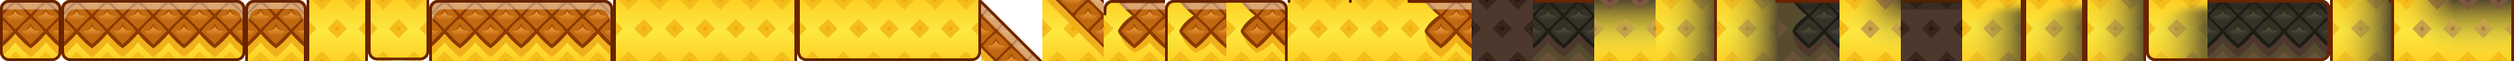
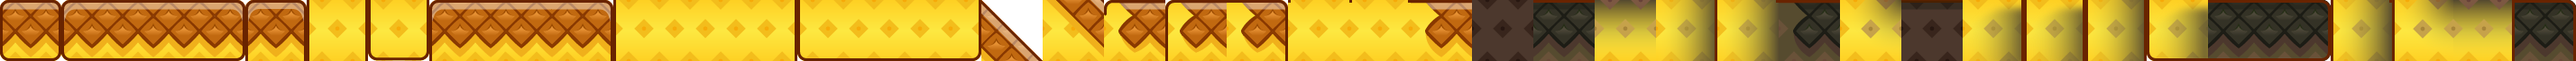
Grotte: il 66 sopra il 65, pavimento che finisce sul vuoto

diff --git a/game.js b/game.js
@@ -46,7 +46,7 @@ const PIX={block:0,horizontal_left:1,horizontal_middle:2,horizontal_right:3,vert
 const ERBANAN=new Image();ERBANAN.src='assets/erbananas.webp'; /* il ciuffo d'ananas dell'utente al posto del cespuglio nel mondo 1 */
 /* in grandezza vera, alla scala delle caselle da 68 del paesaggio: così il bordo scuro è spesso come quello del pavimento */
 function ciuffo(c,x,y,ts){const w=ERBANAN.width*ts/68,h=ERBANAN.height*ts/68;if(w)c.drawImage(ERBANAN,x-w/2,y-h,w,h);}
-const PAES=new Image();PAES.src='assets/paesaggio.webp';const PAES_RAMPA=16,PAES_SOTTO=17,PAES_BORDO={m:18,g:19,v:20},PAES_UNIONE=21,PAES_COLONNA=22,PAES_LATO_COLONNA=23,PAES_GROTTA={fondo:24,pav:25,base:26,muro:27,muroPav:28,pavMuro:29,muroBase:30,cielo:31,angolo:32,angoloS:33,muroS:34,muroFondo:35,pavFondo:36,pavFine:37,muroPavS:38,muroBaseS:39,baseBordo:40}; /* 17: la terra sotto una rampa a scalini, con la buccia della rampa dopo nell'angolo; 18-20: dove il piano finisce a sinistra, ai piedi di un muro più alto (m), con un gradino in giù (g) o sul vuoto (v); a destra si capovolgono, il bordo sul vuoto al contrario; 21: il muro accanto al bordo sul vuoto, dove le due linee si uniscono; 22: sotto una colonna, con il piano che arriva dai due lati; 23: il piano ai lati di quella colonna, senza l'uncino; 24-29: la grotta, sfondo, pavimento, la casella sotto il pavimento che torna gialla, il muro a sinistra (a destra si capovolge), e l'angolo: il muro alla quota del pavimento, la prima casella di pavimento accanto al muro e (30) il muro sotto, dove la sfumatura gira; 31: l'interno sotto il soffitto */
+const PAES=new Image();PAES.src='assets/paesaggio.webp';const PAES_RAMPA=16,PAES_SOTTO=17,PAES_BORDO={m:18,g:19,v:20},PAES_UNIONE=21,PAES_COLONNA=22,PAES_LATO_COLONNA=23,PAES_GROTTA={fondo:24,pav:25,base:26,muro:27,muroPav:28,pavMuro:29,muroBase:30,cielo:31,angolo:32,angoloS:33,muroS:34,muroFondo:35,pavFondo:36,pavFine:37,muroPavS:38,muroBaseS:39,baseBordo:40,pavBordo:41}; /* 17: la terra sotto una rampa a scalini, con la buccia della rampa dopo nell'angolo; 18-20: dove il piano finisce a sinistra, ai piedi di un muro più alto (m), con un gradino in giù (g) o sul vuoto (v); a destra si capovolgono, il bordo sul vuoto al contrario; 21: il muro accanto al bordo sul vuoto, dove le due linee si uniscono; 22: sotto una colonna, con il piano che arriva dai due lati; 23: il piano ai lati di quella colonna, senza l'uncino; 24-29: la grotta, sfondo, pavimento, la casella sotto il pavimento che torna gialla, il muro a sinistra (a destra si capovolge), e l'angolo: il muro alla quota del pavimento, la prima casella di pavimento accanto al muro e (30) il muro sotto, dove la sfumatura gira; 31: l'interno sotto il soffitto */
 function paes(c,i,x,y,w,h,flip,capo){const s=c.imageSmoothingEnabled;c.imageSmoothingEnabled=false;if(flip||capo){c.save();c.translate(flip?x+w:x,capo?y+h:y);c.scale(flip?-1:1,capo?-1:1);c.drawImage(PAES,i*68,0,68,68,0,0,w,h);c.restore();}else c.drawImage(PAES,i*68,0,68,68,x,y,w,h);c.imageSmoothingEnabled=s;}
 function sp(c,n,x,y,w,h,flip){if(n.startsWith('terrain_sand_')&&PAES.complete){const t=n.slice(13);if(t==='ramp_short_b'){paes(c,PAES_RAMPA,x,y,w,h,flip);return;}if(t in PIX){paes(c,PIX[t],x,y,w,h);return;}}
  const q=KMAP[n],im=q&&q[2]?KIT2:KIT;if(!q||!im.complete)return;if(flip){c.save();c.translate(x+w,y);c.scale(-1,1);c.drawImage(im,q[0],q[1],96,96,0,0,w,h);c.restore();}else c.drawImage(im,q[0],q[1],96,96,x,y,w,h);}
@@ -581,7 +581,7 @@ function disegna2d(){
  for(const f of M.finti||[]){if(f[2]<c0||f[0]>c1)continue;const dentro=p.x>f[0]-.7&&p.x<f[2]+.7&&p.y>f[1]-.7&&p.y<f[3]+.7;f.a=lerp(f.a===undefined?1:f.a,dentro?.05:1,.15);
   const g=clamp((1-f.a)/.7,0,1);if(g>.01){c.globalAlpha=g;/* pavimento con sotto la casella che torna gialla; il soffitto resta giallo; i muri ai lati solo se la grotta ha il pavimento: nei tunnel aperti sotto si vede solo l'interno */
    const gr=(x,y,i,capo,flip)=>{if(pieno(cel(x,y)))paes(c,i,sx(x)-ts/2,sy(y)-ts/2,mz,mz,flip,capo);};let pav=false;for(let x=f[0];x<=f[2];x++)pav=pav||pieno(cel(x,f[1]-1));if(pav)for(let y=f[1];y<=f[3];y++){const al=y===f[3]&&pieno(cel(f[0],y+1)),ar=y===f[3]&&pieno(cel(f[2],y+1)),sl=!pieno(cel(f[0]-2,y)),sr=!pieno(cel(f[2]+2,y));gr(f[0]-1,y,al?(sl?PAES_GROTTA.angoloS:PAES_GROTTA.angolo):sl?PAES_GROTTA.muroS:PAES_GROTTA.muro);gr(f[2]+1,y,ar?(sr?PAES_GROTTA.angoloS:PAES_GROTTA.angolo):sr?PAES_GROTTA.muroS:PAES_GROTTA.muro,false,true);}const ms=pav&&pieno(cel(f[0]-1,f[1])),md=pav&&pieno(cel(f[2]+1,f[1]));if(ms){gr(f[0]-1,f[1]-1,!pieno(cel(f[0]-1,f[1]-2))?PAES_GROTTA.muroFondo:pieno(cel(f[0]-2,f[1]-1))?PAES_GROTTA.muroPav:PAES_GROTTA.muroPavS);gr(f[0]-1,f[1]-2,pieno(cel(f[0]-2,f[1]-2))?PAES_GROTTA.muroBase:PAES_GROTTA.muroBaseS);}if(md){gr(f[2]+1,f[1]-1,!pieno(cel(f[2]+1,f[1]-2))?PAES_GROTTA.muroFondo:pieno(cel(f[2]+2,f[1]-1))?PAES_GROTTA.muroPav:PAES_GROTTA.muroPavS,false,true);gr(f[2]+1,f[1]-2,pieno(cel(f[2]+2,f[1]-2))?PAES_GROTTA.muroBase:PAES_GROTTA.muroBaseS,false,true);}
-   for(let x=f[0];x<=f[2];x++){if(pieno(cel(x,f[1]-1))){const ang=x===f[0]&&ms?1:x===f[2]&&md?-1:0;const vu=!pieno(cel(x,f[1]-2)),fi=!vu||ang?0:!pieno(cel(x+1,f[1]-1))?1:!pieno(cel(x-1,f[1]-1))?-1:0;gr(x,f[1]-1,ang?PAES_GROTTA.pavMuro:fi?PAES_GROTTA.pavFine:vu?PAES_GROTTA.pavFondo:PAES_GROTTA.pav,false,ang<0||fi<0);const bd=!pieno(cel(x+1,f[1]-2)),bs=!pieno(cel(x-1,f[1]-2));gr(x,f[1]-2,bd||bs?PAES_GROTTA.baseBordo:PAES_GROTTA.base,false,!bd&&bs);}}}
+   for(let x=f[0];x<=f[2];x++){if(pieno(cel(x,f[1]-1))){const ang=x===f[0]&&ms?1:x===f[2]&&md?-1:0;const vu=!pieno(cel(x,f[1]-2)),fi=ang?0:!pieno(cel(x+1,f[1]-1))?1:!pieno(cel(x-1,f[1]-1))?-1:0;gr(x,f[1]-1,ang?PAES_GROTTA.pavMuro:fi?(vu?PAES_GROTTA.pavFine:PAES_GROTTA.pavBordo):vu?PAES_GROTTA.pavFondo:PAES_GROTTA.pav,false,ang<0||fi<0);const bd=!pieno(cel(x+1,f[1]-2)),bs=!pieno(cel(x-1,f[1]-2));gr(x,f[1]-2,bd||bs?PAES_GROTTA.baseBordo:PAES_GROTTA.base,false,!bd&&bs);}}}
   c.globalAlpha=f.a;
   for(let y=f[1];y<=f[3];y++)for(let x=f[0];x<=f[2];x++)if(!pieno(cel(x,y)))sp(c,nomeTile(x,y,k),sx(x)-ts/2,sy(y)-ts/2,mz,mz);c.globalAlpha=1;}
  if(G.comboV&&G.t-G.comboV.t<.9){const e=(G.t-G.comboV.t)/.9,z=ts*(.9+Math.min(1,e*6)*.35+G.comboV.n*.04);c.save();c.globalAlpha=1-e*e;c.font=`400 ${z}px "Bowlby One","Arial Black",sans-serif`;c.textAlign='center';c.lineWidth=z*.16;c.strokeStyle='#2a1a10';c.fillStyle='#f6c445';const tx=sx(p.x),ty=sy(p.y+1.6+e*1.2);c.strokeText('x'+G.comboV.n,tx,ty);c.fillText('x'+G.comboV.n,tx,ty);c.restore();}

diff --git a/CLAUDE.md b/CLAUDE.md
@@ -36,7 +36,7 @@ Gioco per browser pensato per il telefono in orizzontale, pubblicato con GitHub 
   - `x` blocco che crolla: mezzo secondo dopo che ci sali cade, e torna dopo 4 secondi.
   - `y` botola: sembra terra, ma se ti fermi sopra crolla dopo 0,8 secondi. Per ora nel livello 1 non ce ne sono: l'utente non le voleva dove c'erano.
   - `X` muro crepato: si apre solo con l'esplosione.
-  - **Pareti finte** (rettangoli in `FINTI`): si disegnano come terra sopra quello che c'è dietro, si attraversano e sbiadiscono quando Matteo ci entra. Dietro c'è una grotta, con i pezzi dell'utente in `PAES_GROTTA`: sfondo `sprite-42.png`, pavimento `sprite-43.png` e sotto il pavimento `sprite-44.png`, che torna gialla; se però quella casella ha il vuoto di lato (per esempio sotto un ponte) va `sprite-65.png`, il 44 con il bordo a destra (a sinistra capovolto). Il soffitto resta il giallo ananas normale: l'utente lo vuole così; la fila dell'interno subito sotto è `sprite-52.png`, con la linea scura in cima. I muri ai lati, nella colonna accanto alla grotta, sono `sprite-47.png` (a destra capovolto; il 45 è la versione vecchia e non si usa più), e la casella di muro nella fila più alta, sotto il soffitto, è `sprite-56.png` (`PAES_GROTTA.angolo`). Se il muro è largo una casella sola, con il vuoto fuori, ha il bordo anche dall'altra parte: `sprite-58.png`, e in cima `sprite-57.png`; alla quota del pavimento e sotto, al posto del 46 e del 49, `sprite-63.png` e `sprite-55.png`. Se sotto il pavimento della grotta c'è il vuoto, il pavimento è `sprite-60.png` (con il bordo sotto), dove finisce sul vuoto di lato `sprite-61.png` (arrotondato, a sinistra capovolto) e il muro alla quota del pavimento `sprite-59.png` invece del 46. Le linee delle grotte sono marroni come quelle del terreno, ma solo se la grotta ha un pavimento: nei tunnel aperti sotto si vede solo l'interno. Negli angoli tra muro e pavimento il muro alla quota del pavimento è `sprite-46.png` la prima casella di pavimento è `sprite-48.png` e sotto il 46 va `sprite-49.png`, dove la sfumatura gira (a destra capovolti).
+  - **Pareti finte** (rettangoli in `FINTI`): si disegnano come terra sopra quello che c'è dietro, si attraversano e sbiadiscono quando Matteo ci entra. Dietro c'è una grotta, con i pezzi dell'utente in `PAES_GROTTA`: sfondo `sprite-42.png`, pavimento `sprite-43.png` e sotto il pavimento `sprite-44.png`, che torna gialla; se però quella casella ha il vuoto di lato (per esempio sotto un ponte) va `sprite-65.png`, il 44 con il bordo a destra (a sinistra capovolto). Sopra, il pavimento che finisce sul vuoto di lato con la terra sotto è `sprite-66.png`, arrotondato in alto. Il soffitto resta il giallo ananas normale: l'utente lo vuole così; la fila dell'interno subito sotto è `sprite-52.png`, con la linea scura in cima. I muri ai lati, nella colonna accanto alla grotta, sono `sprite-47.png` (a destra capovolto; il 45 è la versione vecchia e non si usa più), e la casella di muro nella fila più alta, sotto il soffitto, è `sprite-56.png` (`PAES_GROTTA.angolo`). Se il muro è largo una casella sola, con il vuoto fuori, ha il bordo anche dall'altra parte: `sprite-58.png`, e in cima `sprite-57.png`; alla quota del pavimento e sotto, al posto del 46 e del 49, `sprite-63.png` e `sprite-55.png`. Se sotto il pavimento della grotta c'è il vuoto, il pavimento è `sprite-60.png` (con il bordo sotto), dove finisce sul vuoto di lato `sprite-61.png` (arrotondato, a sinistra capovolto) e il muro alla quota del pavimento `sprite-59.png` invece del 46. Le linee delle grotte sono marroni come quelle del terreno, ma solo se la grotta ha un pavimento: nei tunnel aperti sotto si vede solo l'interno. Negli angoli tra muro e pavimento il muro alla quota del pavimento è `sprite-46.png` la prima casella di pavimento è `sprite-48.png` e sotto il 46 va `sprite-49.png`, dove la sfumatura gira (a destra capovolti).
 - Valide in tutto il gioco:
   - **Scatto:** quando colpisce il primo nemico elimina tutti quelli nel suo blocco (entro una casella più in là); se è partito slanciato (sopra velocità 8, `p.catena=2`) quelli entro due blocchi. Poi, se lo scatto era lento, Matteo si ferma e rimbalza indietro; se era slanciato va avanti senza fermarsi. `forte` si ricalcola per ogni nemico.
   - **Salto in testa:** cadendo sopra un nemico che cammina (`e`) o vola (`f`) lo uccide e rimbalza. Quelli con le spine (`r`) e i blocchi che sparano (`g`) fanno male anche dall'alto.
